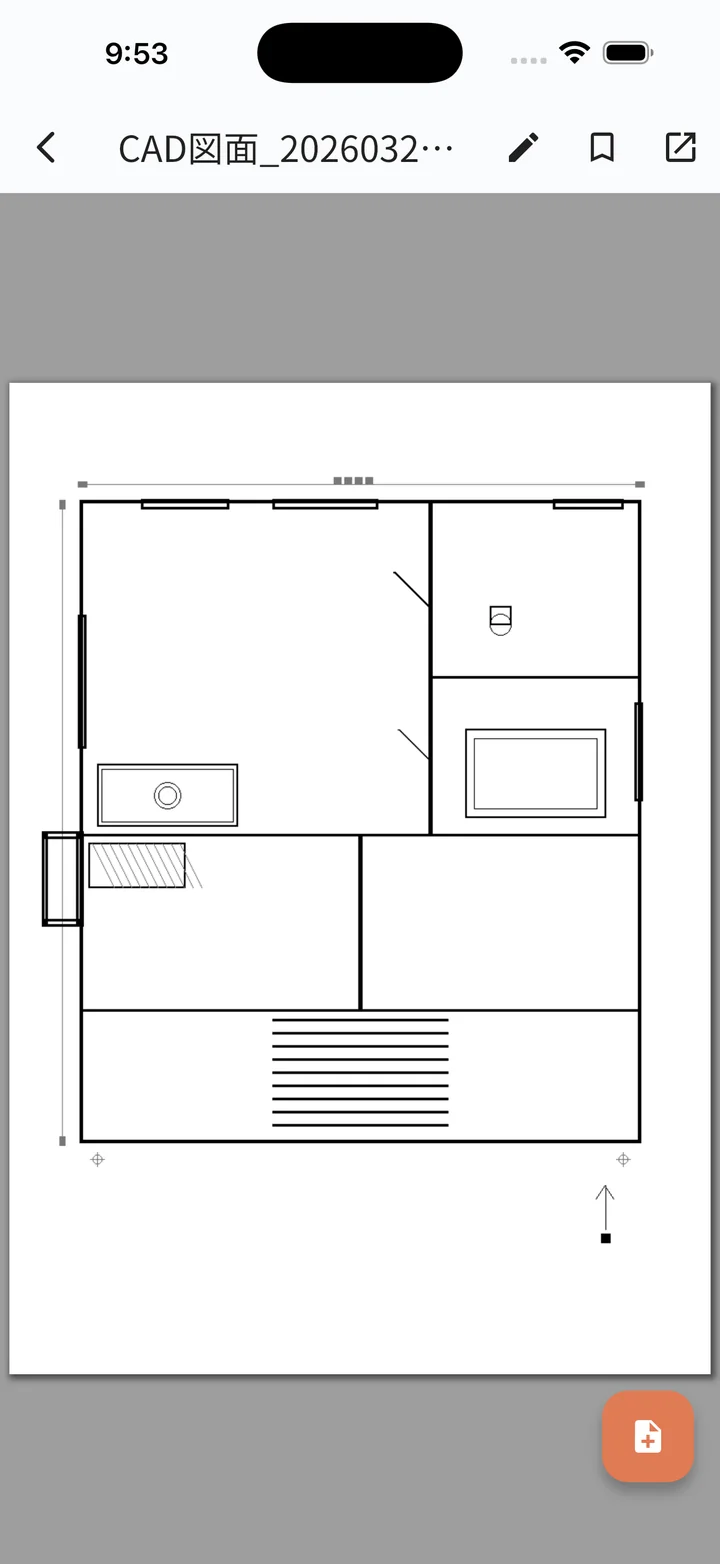
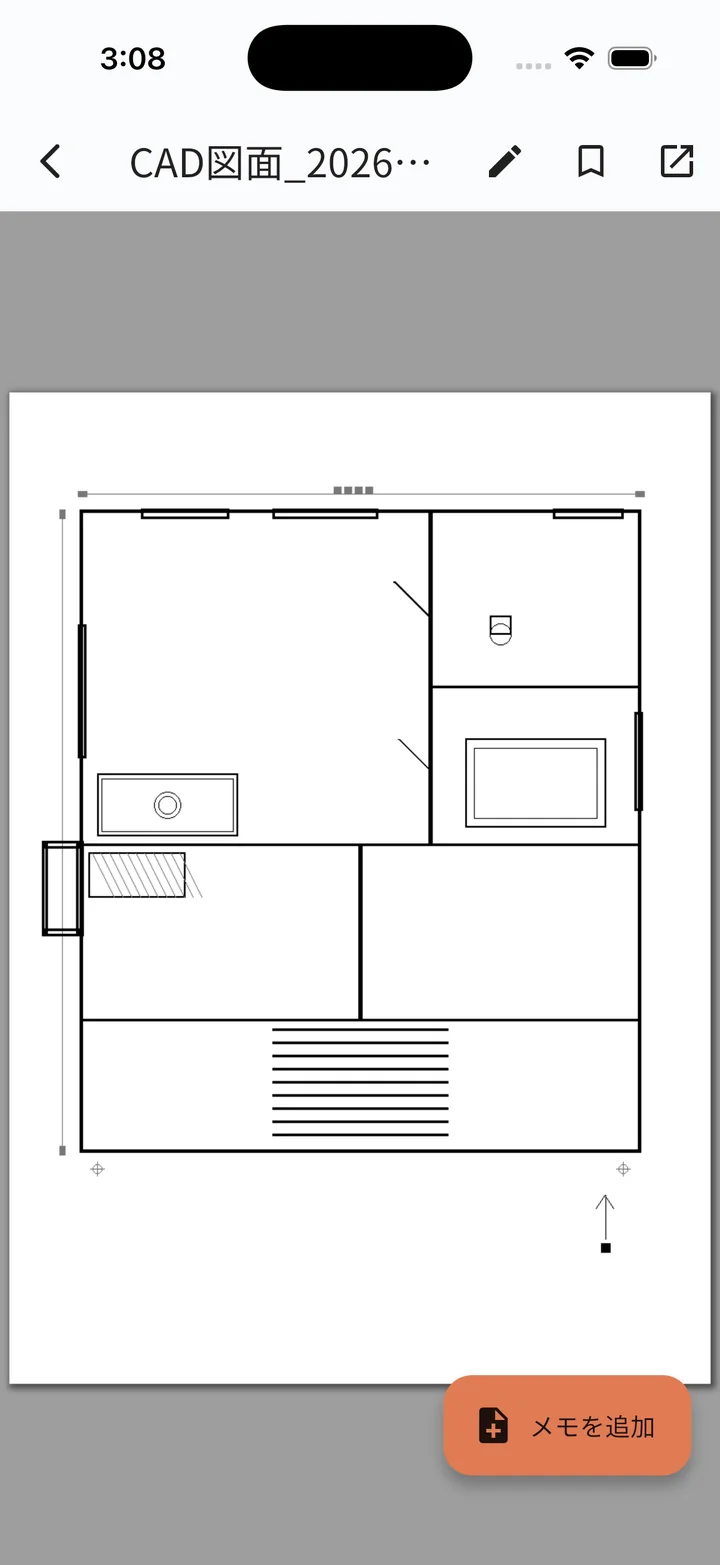
docs(manual): スクショ 16 枚を現行画面で撮り直し + height 属性・上書き確認ダイアログの説明・デモデータの記述を実装に合わせる

diff --git a/docs/manual.html b/docs/manual.html
@@ -1017,7 +1017,7 @@
 <p>アプリの起点となる画面です。カラフルなタイルで各機能にアクセスできます。</p>
 
 <figure class="shot-phone">
-  <img src="images/home_ieduzukuri.webp" width="720" height="1564" alt="ホーム画面（家づくりモード / 10タイル）" loading="lazy" decoding="async">
+  <img src="images/home_ieduzukuri.webp" width="720" height="1565" alt="ホーム画面（家づくりモード / 10タイル）" loading="lazy" decoding="async">
   <figcaption>ホーム画面（家づくりモード / 10タイル）</figcaption>
 </figure>
 
@@ -1097,7 +1097,7 @@
 
 <div class="shot-grid">
   <figure class="shot-phone">
-    <img src="images/home_drawer_ieduzukuri.webp" width="720" height="1564" alt="サイドメニュー（家づくりモード）" loading="lazy" decoding="async">
+    <img src="images/home_drawer_ieduzukuri.webp" width="720" height="1565" alt="サイドメニュー（家づくりモード）" loading="lazy" decoding="async">
     <figcaption>サイドメニュー（家づくりモード）</figcaption>
   </figure>
   <figure class="shot-phone">
@@ -1182,8 +1182,8 @@
     <figcaption>取り込み画面のプレビューリスト</figcaption>
   </figure>
   <figure class="shot-phone">
-    <img src="images/import_duplicate.webp" width="720" height="1564" alt="重複警告（同じPDFを再取り込み時）" loading="lazy" decoding="async">
-    <figcaption>重複警告（同じPDFを再取り込み時）</figcaption>
+    <img src="images/import_duplicate.webp" width="720" height="1565" alt="ファイルの上書き確認（同じ図面番号・種別で内容の違うPDFを再取り込みしたとき）" loading="lazy" decoding="async">
+    <figcaption>ファイルの上書き確認（同じ図面番号・種別で内容の違うPDFを再取り込みしたとき）</figcaption>
   </figure>
 </div>
 
@@ -1274,7 +1274,7 @@
     <figcaption>ドキュメント一覧（図面番号グループ表示）</figcaption>
   </figure>
   <figure class="shot-phone">
-    <img src="images/doc_list_empty.webp" width="720" height="1564" alt="ドキュメント一覧の空状態" loading="lazy" decoding="async">
+    <img src="images/doc_list_empty.webp" width="720" height="1565" alt="ドキュメント一覧の空状態" loading="lazy" decoding="async">
     <figcaption>空状態（取り込み前）</figcaption>
   </figure>
 </div>
@@ -1473,11 +1473,11 @@
 
 <div class="gallery">
   <figure class="shot-phone">
-    <img src="images/pdf_viewer.webp" width="720" height="1564" alt="PDFビューア（画面上部のバーと右下の丸ボタン）" loading="lazy" decoding="async">
+    <img src="images/pdf_viewer.webp" width="720" height="1565" alt="PDFビューア（画面上部のバーと右下の丸ボタン）" loading="lazy" decoding="async">
     <figcaption>PDFビューア（画面上部のバーと右下の丸ボタン）</figcaption>
   </figure>
   <figure class="shot-phone">
-    <img src="images/pdf_viewer_memo_badge.webp" width="720" height="1564" alt="画面上部のバー にページメモバッジが付いた状態" loading="lazy" decoding="async">
+    <img src="images/pdf_viewer_memo_badge.webp" width="720" height="1565" alt="画面上部のバー にページメモバッジが付いた状態" loading="lazy" decoding="async">
     <figcaption>画面上部のバー にページメモバッジが付いた状態</figcaption>
   </figure>
   <figure class="shot-phone">
@@ -1485,7 +1485,7 @@
     <figcaption>ページメモ一覧ポップアップ</figcaption>
   </figure>
   <figure class="shot-phone">
-    <img src="images/pdf_viewer_add_memo.webp" width="720" height="1564" alt="右下の丸ボタンから開くメモ追加ダイアログ" loading="lazy" decoding="async">
+    <img src="images/pdf_viewer_add_memo.webp" width="720" height="1565" alt="右下の丸ボタンから開くメモ追加ダイアログ" loading="lazy" decoding="async">
     <figcaption>右下の丸ボタンから開くメモ追加ダイアログ</figcaption>
   </figure>
   <figure class="shot-phone">
@@ -1952,7 +1952,7 @@
     <figcaption>ホームから「見積り管理」タイルをタップ</figcaption>
   </figure>
   <figure class="shot-phone">
-    <img src="images/estimate_list.webp" width="720" height="1564" alt="見積り一覧タブ（図面番号順カード／タブ切替）" loading="lazy" decoding="async">
+    <img src="images/estimate_list.webp" width="720" height="1565" alt="見積り一覧タブ（図面番号順カード／タブ切替）" loading="lazy" decoding="async">
     <figcaption>見積り一覧タブ（図面番号順カード、上部に「2版比較」「推移表」、下に一覧／比較履歴タブ）</figcaption>
   </figure>
 </div>
@@ -2343,11 +2343,11 @@
 
 <div class="shot-grid">
   <figure class="shot-phone">
-    <img src="images/pdf_viewer_add_memo.webp" width="720" height="1564" alt="PDFビューアの右下の丸ボタンから開くメモ追加ダイアログ" loading="lazy" decoding="async">
+    <img src="images/pdf_viewer_add_memo.webp" width="720" height="1565" alt="PDFビューアの右下の丸ボタンから開くメモ追加ダイアログ" loading="lazy" decoding="async">
     <figcaption>右下の丸ボタンでメモ追加</figcaption>
   </figure>
   <figure class="shot-phone">
-    <img src="images/pdf_viewer_memo_badge.webp" width="720" height="1564" alt="画面上部のバーにページメモバッジが表示" loading="lazy" decoding="async">
+    <img src="images/pdf_viewer_memo_badge.webp" width="720" height="1565" alt="画面上部のバーにページメモバッジが表示" loading="lazy" decoding="async">
     <figcaption>登録後：ページメモバッジ</figcaption>
   </figure>
   <figure class="shot-phone">
@@ -2513,7 +2513,7 @@
     <figcaption>多種混在状態</figcaption>
   </figure>
   <figure class="shot-phone">
-    <img src="images/bookmark_empty.webp" width="720" height="1564" alt="ブックマーク一覧の空状態" loading="lazy" decoding="async">
+    <img src="images/bookmark_empty.webp" width="720" height="1565" alt="ブックマーク一覧の空状態" loading="lazy" decoding="async">
     <figcaption>ブックマーク一覧の空状態</figcaption>
   </figure>
   <figure class="shot-phone">
@@ -2777,7 +2777,7 @@
     <figcaption>ホーム（暮らしモード）から「でんき通信簿」タイルをタップ</figcaption>
   </figure>
   <figure class="shot-phone">
-      <img src="images/electricity_empty.webp" width="720" height="1564" alt="でんき通信簿 初回・データ未取り込みの空状態" loading="lazy" decoding="async">
+      <img src="images/electricity_empty.webp" width="720" height="1565" alt="でんき通信簿 初回・データ未取り込みの空状態" loading="lazy" decoding="async">
       <figcaption>でんき通信簿 初回・データ未取り込みの空状態</figcaption>
     </figure>
 </div>
@@ -3315,7 +3315,7 @@
     <figcaption>ホーム（暮らしモード）から「お手入れ当番表」タイルをタップ</figcaption>
   </figure>
   <figure class="shot-phone">
-    <img src="images/maintenance_list.webp" width="720" height="1564" alt="お手入れ当番表 一覧（緊急度ビュー）" loading="lazy" decoding="async">
+    <img src="images/maintenance_list.webp" width="720" height="1565" alt="お手入れ当番表 一覧（緊急度ビュー）" loading="lazy" decoding="async">
     <figcaption>一覧画面（緊急度ビュー）</figcaption>
   </figure>
 </div>
@@ -4101,7 +4101,7 @@
   <li>サンプル見積り（複数版、推移表が楽しめる内容）</li>
   <li>サンプル仕様書</li>
   <li>サンプルメモ</li>
-  <li>でんき通信簿のダミーデータ（1年分）</li>
+  <li>でんき通信簿のダミーデータ（3ヶ月分）</li>
 </ul>
 
 <div class="callout warn">
